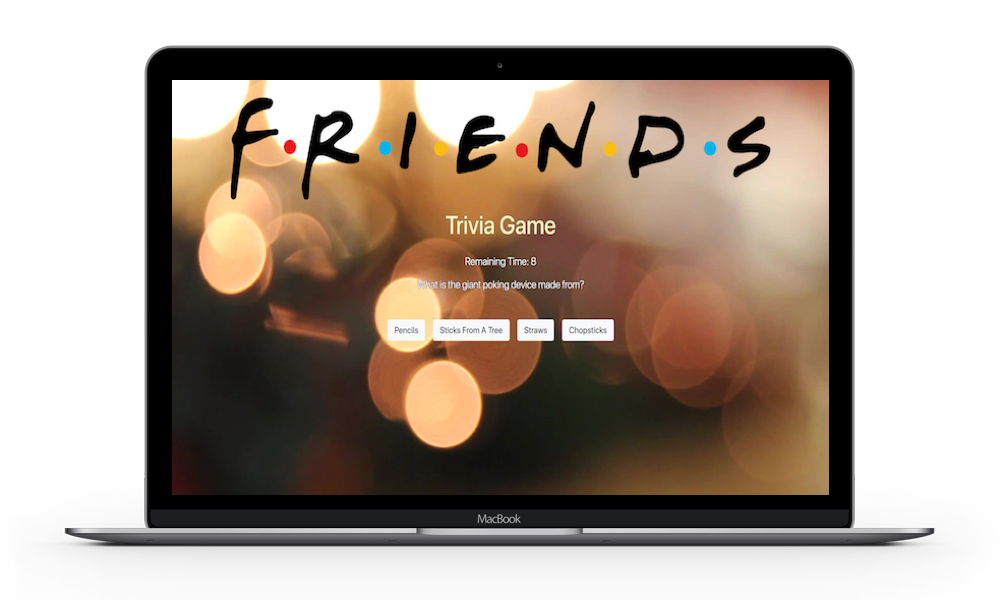
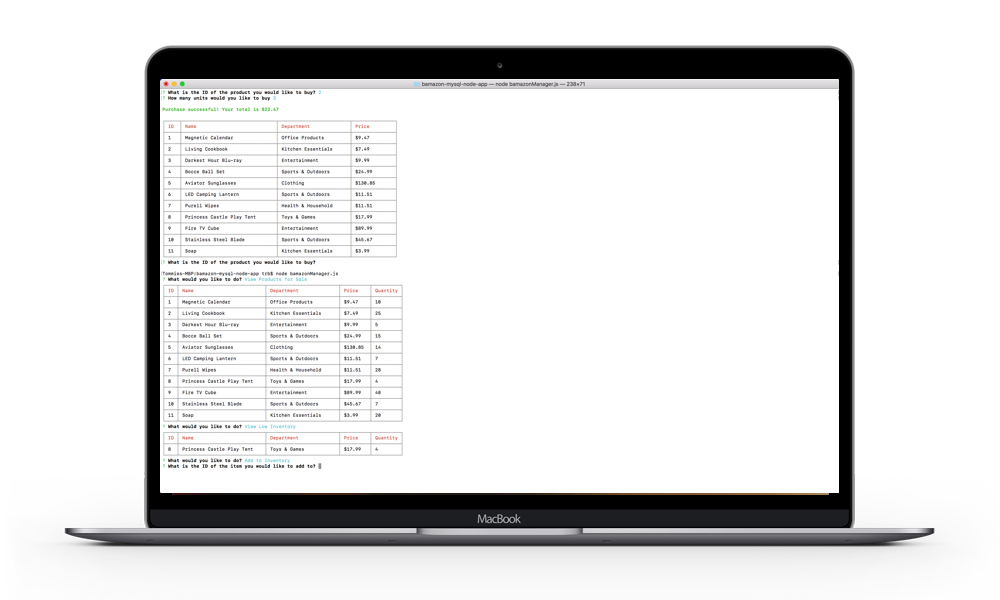
bamazon

diff --git a/index.html b/index.html
@@ -78,9 +78,9 @@
                     <img class="computer" src="assets/images/computer-friends.png" alt="project1">
                 </div>
                 <div class="col m12 l5" id="projectDesc">
-                    <a href="https://tbehrenbeck.github.io/TriviaGame/" class="projectLink" target="_blank"><h3>Friends Triva</h3></a>
-                    <p>A timed trivia game based on the tv sitcom, Friends.</p>
-                    <a href="https://github.com/tbehrenbeck/TriviaGame" target="_blank"><i class="fab fa-github-square fa-2x"></i></a>
+                    <a href="https://tbehrenbeck.github.io/bamazon-mysql-node-app/" class="projectLink" target="_blank"><h3>Bamazon</h3></a>
+                    <p>A CLI Amazon-like storefront utilizing MySQL for data input and storage.</p>
+                    <a href="https://github.com/tbehrenbeck/bamazon-mysql-node-app" target="_blank"><i class="fab fa-github-square fa-2x"></i></a>
                 </div>
             </div>
         </div>
